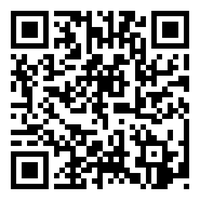
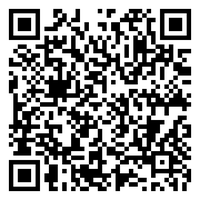
fix: QR codes 40px + ERROR_CORRECT_H for compact print size

diff --git a/ESSOG.html b/ESSOG.html
@@ -87,7 +87,7 @@
     a{text-decoration:none;color:inherit}
     .print-footer{display:block;position:fixed;bottom:0;left:0;right:0;padding:5px 14mm;font-size:8pt;color:#555;border-top:1px solid #bbb;background:#fff;text-align:center}
     .print-qr{display:block;position:fixed;bottom:22px;right:14mm;text-align:center}
-    .print-qr img{width:66px;height:66px;display:block;margin:0 auto}
+    .print-qr img{width:40px;height:40px;display:block;margin:0 auto}
     .print-qr-label{font-size:7pt;color:#777;margin-top:2px;line-height:1.3}
   }
   @media screen{.print-footer{display:none}.print-qr{display:none}}

diff --git a/ESSV1.html b/ESSV1.html
@@ -91,7 +91,7 @@
     a{text-decoration:none;color:inherit}
     .print-footer{display:block;position:fixed;bottom:0;left:0;right:0;padding:5px 14mm;font-size:8pt;color:#555;border-top:1px solid #bbb;background:#fff;text-align:center}
     .print-qr{display:block;position:fixed;bottom:22px;right:14mm;text-align:center}
-    .print-qr img{width:66px;height:66px;display:block;margin:0 auto}
+    .print-qr img{width:40px;height:40px;display:block;margin:0 auto}
     .print-qr-label{font-size:7pt;color:#777;margin-top:2px;line-height:1.3}
   }
   @media screen{.print-footer{display:none}.print-qr{display:none}}
